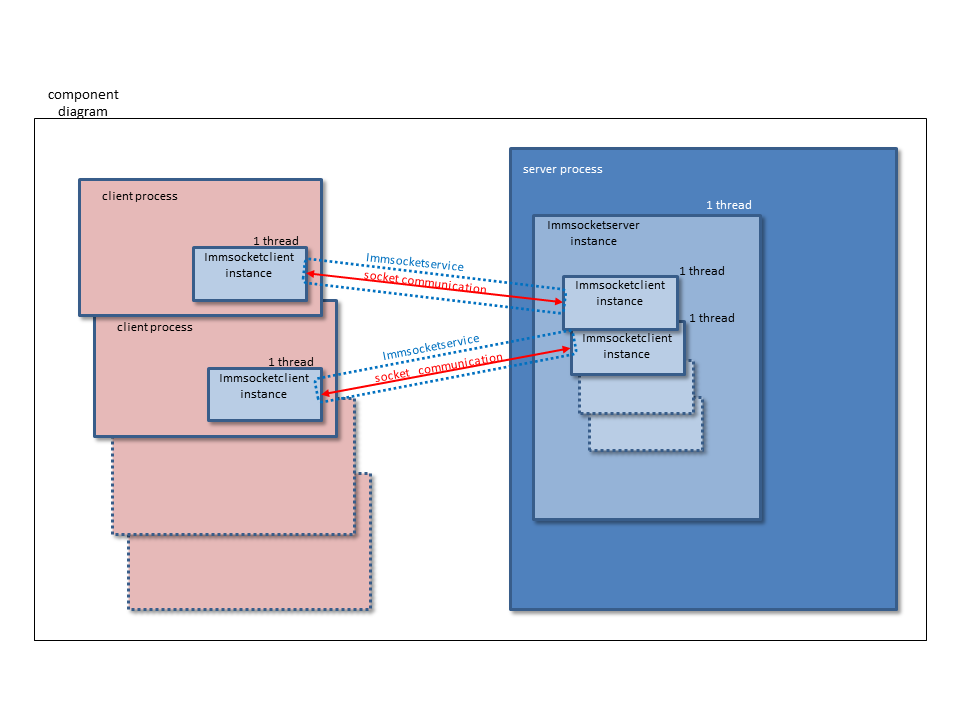
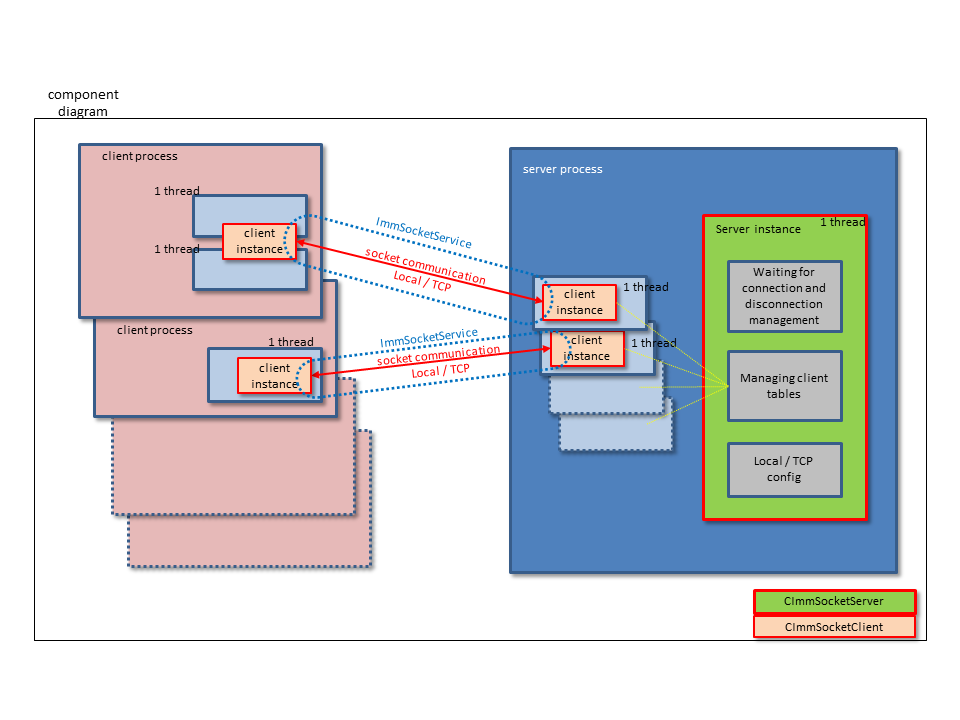
etc...

Changed region(s): [[0.0625, 0.1833, 0.9062, 0.7333], [0.0938, 0.7028, 0.4062, 0.8556], [0.5312, 0.7944, 0.9688, 0.9167]]

diff --git a/immsocket/ImmSocketClient.h b/immsocket/ImmSocketClient.h
@@ -106,7 +106,7 @@ private:
 	pthread_mutex_t mMutex;
 	pthread_mutex_t mMutexSend;
 
-	char mSocketEndpointPath [64]; // imm
+	char mSocketEndpointPath [64]; // local
 	char mIpAddr [15+1];          // tcp
 	uint16_t mPort;               // tcp
 
